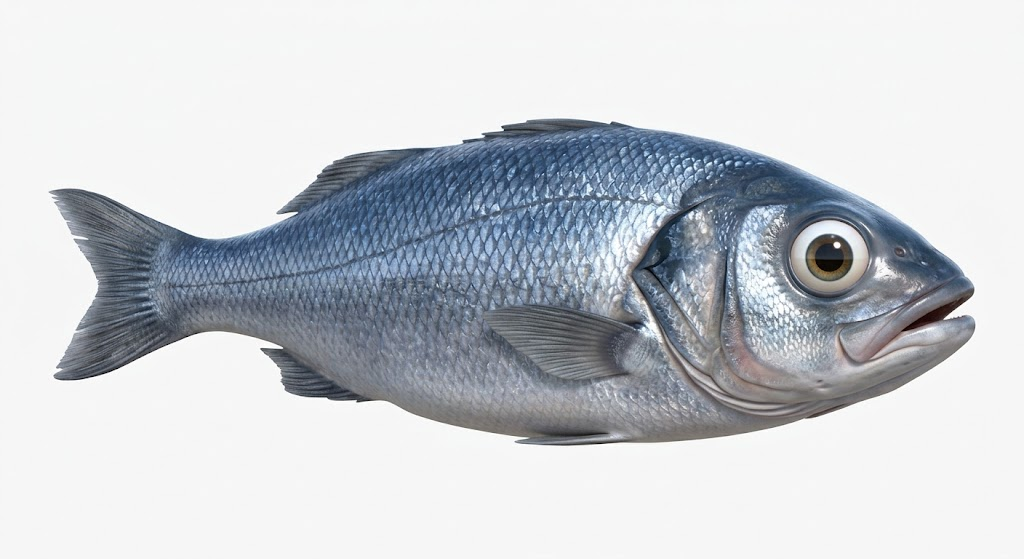
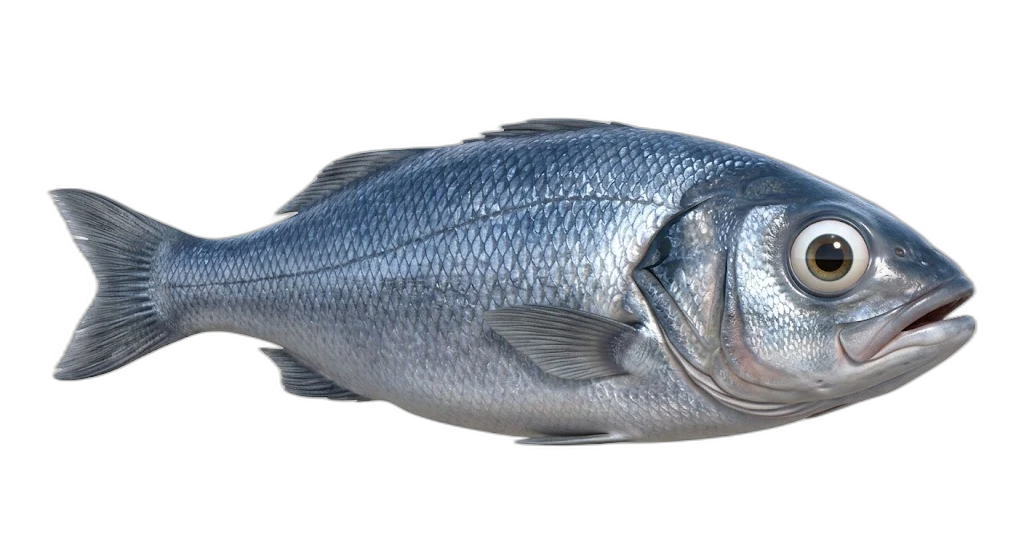
Remove background from pet food images (rembg + cwebp -q 88) (#404)

diff --git a/sw.js b/sw.js
@@ -5,7 +5,7 @@
 
 
 
-const CACHE = "heropace-v578";
+const CACHE = "heropace-v579";
 const NOTIF_CACHE = 'heropace-notif-v1'; // stato notifiche (non cancellare mai)
 
 /* File locali per fallback offline */
